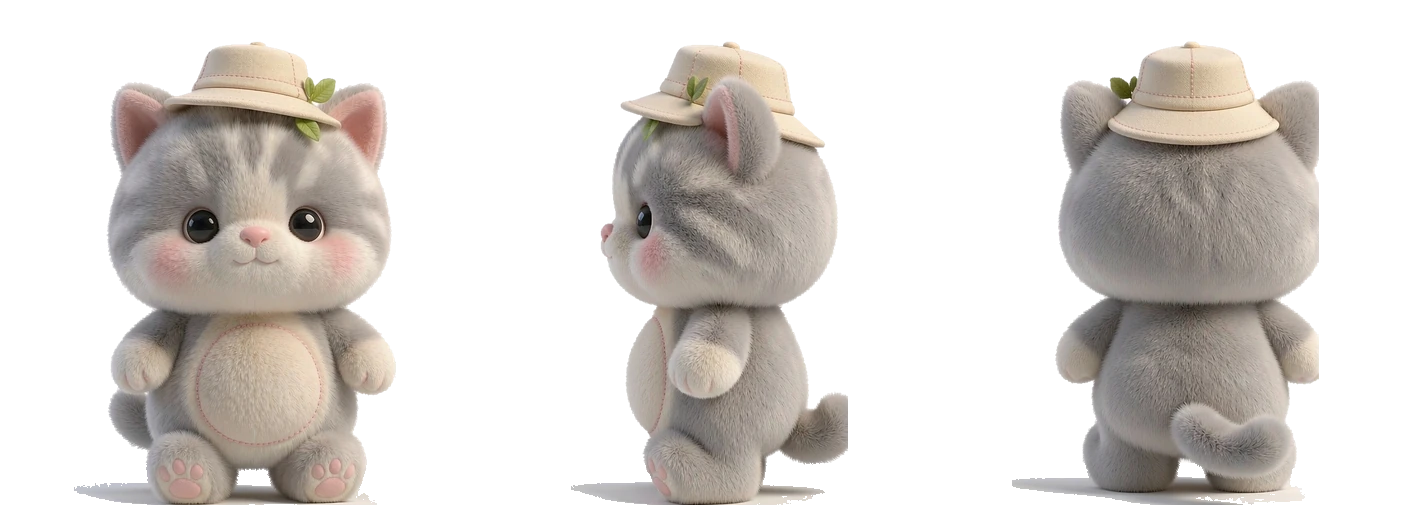
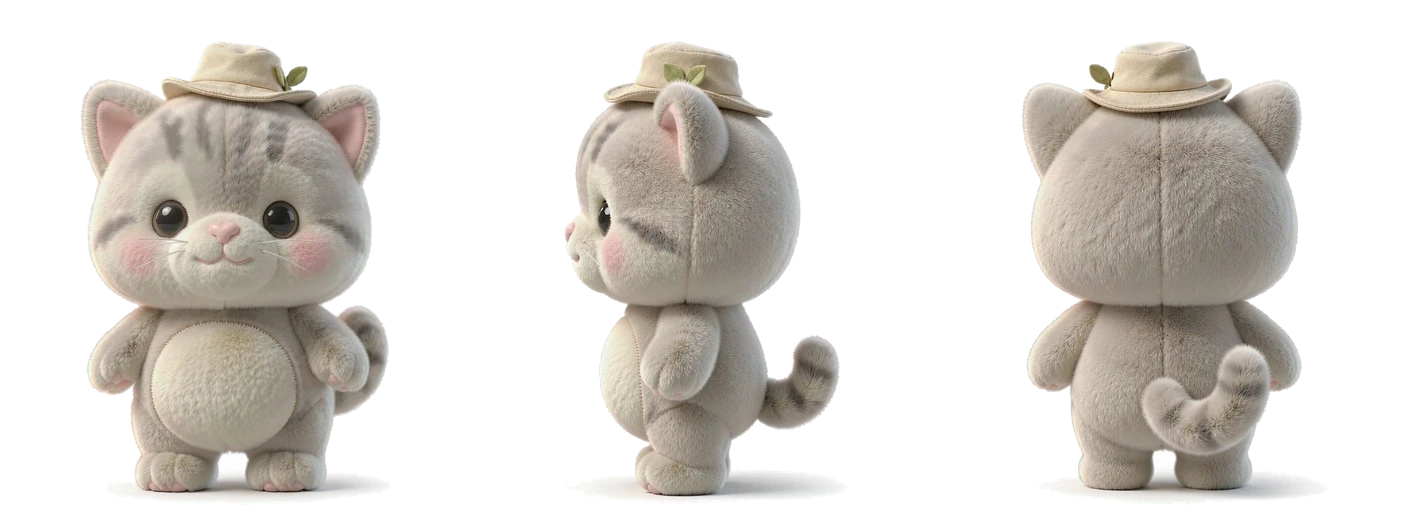
按 v3 交付包重出全套素材：新母版做默认帧、四表情整帧（同猫同脚底）、三视图换新；单击惊讶/双击生气/长按羞涩/连摸五次开心

diff --git a/src/PetCat2D.jsx b/src/PetCat2D.jsx
@@ -34,12 +34,23 @@ export default function PetCat2D({ onPet, petSignal = 0 }) {
   const [act, setAct] = useState('');
   const [greet, setGreet] = useState(false);
   const [view, setView] = useState(0);        // 0 正面 / 1 侧面 / 2 背面
+  const [face, setFace] = useState('');       // happy / surprised / angry / shy
   const [purring, setPurring] = useState(false);
   const [ready, setReady] = useState(false);
   const greetTimers = useRef([]);
   const viewRef = useRef(0);
+  const faceTimer = useRef(0);
+  const petCount = useRef(0);
   const turnWarm = useRef(false);
   const turnReady = useRef(false);
+
+  // 四种表情都是同一只母版的整帧（交付包里统一 600×740、脚底对齐），
+  // 换帧只变脸和一点歪头，身体一模一样 —— 不会再出现"换了只猫"。
+  function showFace(name, hold) {
+    setFace(name);
+    window.clearTimeout(faceTimer.current);
+    faceTimer.current = window.setTimeout(() => setFace(''), hold);
+  }
 
   // 打招呼：不打手势（那只手的素材和默认帧不是同一套腿长，换整帧会“换张照片”），
   // 改成歪一下头 + 连着眨两次眼 —— 猫认出你时就是这个动作，而且只用变换，不会窜图。
@@ -193,6 +204,7 @@ export default function PetCat2D({ onPet, petSignal = 0 }) {
         if (s.moved < 12) {
           s.purred = true;      // 长按算抚摸，松手时不要再当成“点了一下”
           setPurring(true);
+          showFace('shy', 6000); // 松手时由 release 清掉
           onPetRef.current?.();
         }
       }, 640);
@@ -220,11 +232,13 @@ export default function PetCat2D({ onPet, petSignal = 0 }) {
       s.dragging = false;
       window.clearTimeout(pressTimer);
       setPurring(false);
+      window.clearTimeout(faceTimer.current);
+      setFace('');
       if (s.moved < 6 && !s.purred) {
         s.lift = 1;
-        // 被点一下：先眨一下眼再弹起来，比换一张表情图自然
-        setBlink(true);
-        window.setTimeout(() => setBlink(false), 110);
+        petCount.current += 1;
+        const n = petCount.current;
+        showFace(n % 5 === 0 ? 'happy' : 'surprised', n % 5 === 0 ? 2200 : 1200);
         onPetRef.current?.();
       }
       s.ty = 0;
@@ -299,6 +313,7 @@ export default function PetCat2D({ onPet, petSignal = 0 }) {
       if (gazeRaf) cancelAnimationFrame(gazeRaf);
       window.clearTimeout(pressTimer);
       window.clearTimeout(hoverTimer);
+      window.clearTimeout(faceTimer.current);
       greetTimers.current.forEach(window.clearTimeout);
       greetTimers.current = [];
       host.removeEventListener('pointerdown', down);
@@ -392,6 +407,8 @@ export default function PetCat2D({ onPet, petSignal = 0 }) {
       title="摸摸我"
       data-act={(greet ? 'greet' : act) || undefined}
       data-view={view || undefined}
+      data-face={face || undefined}
+      onDoubleClick={() => showFace('angry', 1600)}
       onKeyDown={event => {
         if (event.key === 'Enter' || event.key === ' ') {
           event.preventDefault();
@@ -409,6 +426,9 @@ export default function PetCat2D({ onPet, petSignal = 0 }) {
             <span className="pet-2d-layer pet-2d-body" ref={bodyRef}>
               <span className="pet-2d-sprite pet-2d-sprite-body" />
             </span>
+
+            {/* 表情：同一只母版的整帧，只换脸 */}
+            <span className="pet-2d-face" aria-hidden="true" />
 
             {/* 拖拽转身：真三视图，和正面那张分层图同一套坐标 */}
             <span className="pet-2d-turn" aria-hidden="true" />

diff --git a/src/styles.css b/src/styles.css
@@ -296,6 +296,19 @@ p.gc-dialog-hint{font-size:11px;line-height:1.7;color:#8b7c6d;margin:0}
    没有整帧替换、没有贴片，也就不会出现“换了一张照片”的窜图。
    “打招呼”是歪头 + 连眨两次眼（眨眼由 JS 打点）。 */
 /* 切口的柔影加在整只猫上（stage），不能加在头层上，否则切面会投出一条横黑线 */
+/* 表情：四帧同一只猫、同一脚底，只换脸。整帧盖上去，所以不会有"两层脸"的接缝 */
+.pet-2d-face{position:absolute;inset:0;pointer-events:none;opacity:0;z-index:4;
+  background-image:url(/cat/cat-face.webp);background-size:400% 100%;background-repeat:no-repeat;
+  transition:opacity .1s ease}
+.pet-2d[data-face="happy"] .pet-2d-face{opacity:1;background-position:0 0}
+.pet-2d[data-face="surprised"] .pet-2d-face{opacity:1;background-position:33.3333% 0}
+.pet-2d[data-face="angry"] .pet-2d-face{opacity:1;background-position:66.6667% 0}
+.pet-2d[data-face="shy"] .pet-2d-face{opacity:1;background-position:100% 0}
+.pet-2d[data-face] .pet-2d-head,
+.pet-2d[data-face] .pet-2d-body{opacity:0}
+/* 正在转身时表情帧让位：两张整帧叠一起会穿帮 */
+.pet-2d[data-view] .pet-2d-face{opacity:0}
+
 /* 拖拽转身：三视图整帧，正面仍是分层那张。两者同一套画布坐标，切的时候只剩"它转过去了" */
 .pet-2d-turn{position:absolute;inset:0;pointer-events:none;opacity:0;z-index:4;
   background-image:url(/cat/cat-turn.webp);background-size:300% 100%;background-repeat:no-repeat;
@@ -310,9 +323,9 @@ p.gc-dialog-hint{font-size:11px;line-height:1.7;color:#8b7c6d;margin:0}
 .pet-2d-body,.pet-2d-head{transition:opacity .1s ease}
 .pet-2d[data-view] .pet-2d-body,
 .pet-2d[data-view] .pet-2d-head{opacity:0}
-.pet-2d-head{transform-origin:50% 57.8%;z-index:3}
+.pet-2d-head{transform-origin:50% 66%;z-index:3}
 .pet-2d-body{z-index:1}
-.pet-2d-head-motion{position:absolute;inset:0;display:block;transform-origin:50% 57.8%}
+.pet-2d-head-motion{position:absolute;inset:0;display:block;transform-origin:50% 66%}
 
 /* 待机小动作：整体先动，头再叠一点点，读起来是“猫在动”而不是“头在飘” */
 .pet-2d[data-act="tilt"] .pet-2d-sway{animation:cat-tilt 1.55s cubic-bezier(.34,1.3,.5,1)}
